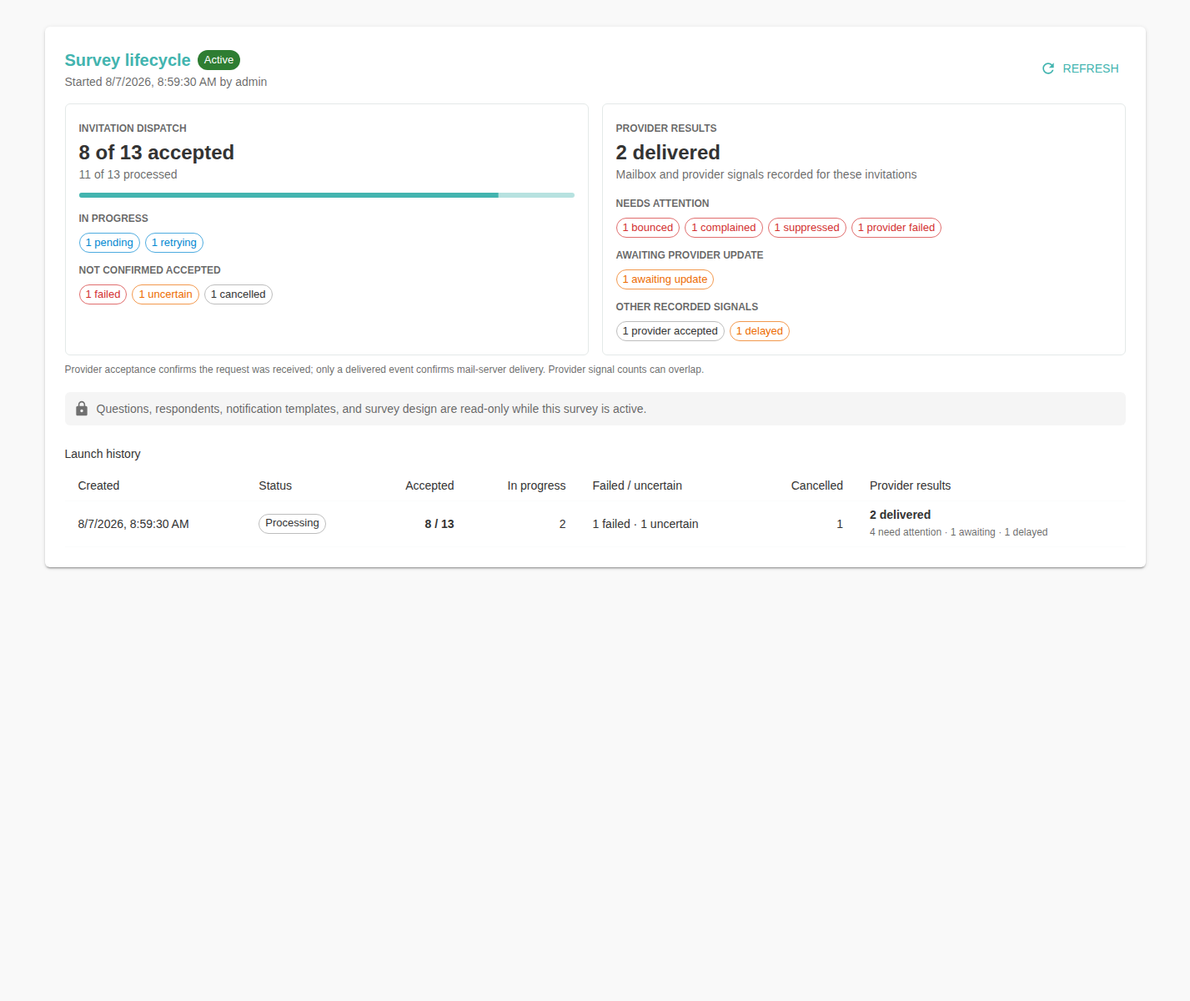
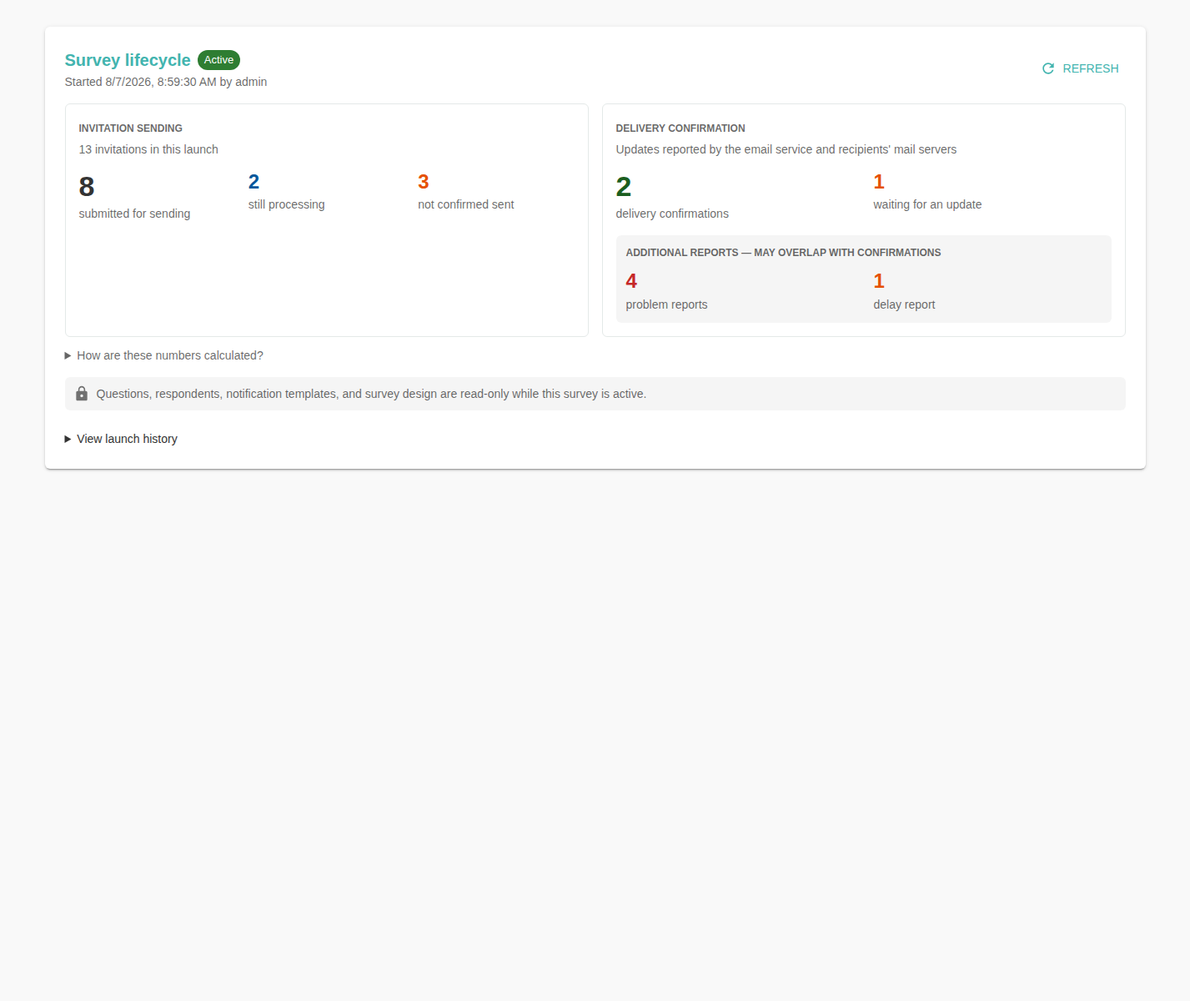
Replace delivery state lists with plain-language summaries

diff --git a/dashboard/src/components/SurveyLifecyclePanel.js b/dashboard/src/components/SurveyLifecyclePanel.js
@@ -1,13 +1,12 @@
 import React from 'react';
 import {
-  Alert, Box, Button, Chip, CircularProgress, LinearProgress, Paper, Stack,
-  Table, TableBody, TableCell, TableHead, TableRow, Tooltip, Typography,
+  Alert, Box, Button, Chip, CircularProgress, Paper, Stack, Typography,
 } from '@mui/material';
 import RefreshIcon from '@mui/icons-material/Refresh';
 import LockIcon from '@mui/icons-material/Lock';
 import api from '../api/axios';
 import {
-  formatDateTime, isLaunchRunning, launchCounts, launchStatus, providerCounts,
+  formatDateTime, isLaunchRunning, launchCounts, providerCounts,
   lifecycleLabel, lifecycleStatus, shouldPollLaunch, surveyId,
 } from './surveyLifecycle';
 
@@ -17,27 +16,55 @@ export const LifecycleChip = ({ status, size = 'small' }) => {
   return <Chip size={size} color={color} variant={normalized === 'closed' ? 'outlined' : 'filled'} label={lifecycleLabel(normalized)} />;
 };
 
-const statusText = (status) => String(status || 'queued').replaceAll('_', ' ').replace(/^./, (letter) => letter.toUpperCase());
-const StatusChip = ({ count, label, title, color = 'default' }) => {
-  if (!count) return null;
-  const metric = `${count} ${label}`;
+const Metric = ({ value, label, singularLabel, emphasis = false, color = 'text.primary' }) => {
+  const displayedLabel = value === 1 && singularLabel ? singularLabel : label;
   return (
-    <Tooltip title={title} arrow describeChild>
-      <Box component="span" tabIndex={0} aria-label={`${metric}. ${title}`} sx={{ display: 'inline-flex' }}>
-        <Chip size="small" color={color} variant="outlined" label={metric} />
-      </Box>
-    </Tooltip>
+    <Box aria-label={`${value} ${displayedLabel}`} sx={{ minWidth: 0 }}>
+      <Typography variant={emphasis ? 'h4' : 'h5'} color={color} sx={{ fontWeight: 700, lineHeight: 1.1 }}>{value}</Typography>
+      <Typography variant="body2" color="text.secondary" sx={{ mt: 0.5 }}>{displayedLabel}</Typography>
+    </Box>
   );
 };
 
-const SummaryCard = ({ title, headline, supporting, children, ariaLabel }) => (
+const SummaryCard = ({ title, supporting, children, ariaLabel }) => (
   <Paper component="section" aria-label={ariaLabel} variant="outlined" sx={{ p: 2, minWidth: 0 }}>
     <Typography variant="overline" color="text.secondary" sx={{ fontWeight: 700, lineHeight: 1.5 }}>{title}</Typography>
-    <Typography variant="h5" sx={{ mt: 0.25, fontWeight: 700 }}>{headline}</Typography>
-    <Typography variant="body2" color="text.secondary">{supporting}</Typography>
+    <Typography variant="body2" color="text.secondary" sx={{ mt: 0.5 }}>{supporting}</Typography>
     {children}
   </Paper>
 );
+
+const countLabel = (count, singular, plural = `${singular}s`) => `${count} ${count === 1 ? singular : plural}`;
+const joinDescriptions = (parts) => parts.length < 2 ? parts[0] || '' : `${parts.slice(0, -1).join(', ')}, and ${parts.at(-1)}`;
+
+const PlainLanguageBreakdown = ({ counts, outcomes }) => {
+  const processing = [
+    counts.pending && countLabel(counts.pending, 'invitation waiting to start', 'invitations waiting to start'),
+    counts.leased && countLabel(counts.leased, 'invitation being sent now', 'invitations being sent now'),
+    counts.retryWait && countLabel(counts.retryWait, 'invitation scheduled for another attempt', 'invitations scheduled for another attempt'),
+  ].filter(Boolean);
+  const notConfirmed = [
+    counts.failed && countLabel(counts.failed, 'permanent failure'),
+    counts.uncertain && countLabel(counts.uncertain, 'result that could not be safely confirmed', 'results that could not be safely confirmed'),
+    counts.cancelled && countLabel(counts.cancelled, 'intentionally stopped invitation'),
+  ].filter(Boolean);
+  const problems = [
+    outcomes.bounced && countLabel(outcomes.bounced, 'mail-server rejection'),
+    outcomes.complained && countLabel(outcomes.complained, 'spam complaint'),
+    outcomes.suppressed && countLabel(outcomes.suppressed, 'blocked address'),
+    outcomes.providerFailed && countLabel(outcomes.providerFailed, 'provider delivery failure'),
+  ].filter(Boolean);
+
+  return (
+    <Box sx={{ mt: 1, pl: 2, maxWidth: 950 }}>
+      <Typography variant="body2"><strong>Submitted for sending</strong> means the email service received the invitation request. It does not confirm delivery.</Typography>
+      <Typography variant="body2" sx={{ mt: 0.75 }}><strong>Still processing:</strong> {processing.length ? joinDescriptions(processing) : 'none'}.</Typography>
+      <Typography variant="body2" sx={{ mt: 0.75 }}><strong>Not confirmed sent:</strong> {notConfirmed.length ? joinDescriptions(notConfirmed) : 'none'}.</Typography>
+      <Typography variant="body2" sx={{ mt: 0.75 }}><strong>Problem reports:</strong> {problems.length ? joinDescriptions(problems) : 'none'}.</Typography>
+      <Typography variant="body2" sx={{ mt: 0.75 }}>A <strong>delivery confirmation</strong> comes from a recipient's mail server. Delay and problem reports are retained and can overlap with later updates.</Typography>
+    </Box>
+  );
+};
 
 const SurveyLifecyclePanel = ({ survey, onSurveyRefresh, refreshToken = 0 }) => {
   const [launches, setLaunches] = React.useState([]);
@@ -105,8 +132,6 @@ const SurveyLifecyclePanel = ({ survey, onSurveyRefresh, refreshToken = 0 }) => 
   const latest = visibleLaunches[0] || survey.latestLaunch || survey.latest_launch;
   const counts = launchCounts(latest);
   const outcomes = providerCounts(latest);
-  const terminal = counts.accepted + counts.failed + counts.uncertain + counts.cancelled;
-  const progress = counts.target ? Math.min(100, (terminal / counts.target) * 100) : 0;
   const adverse = outcomes.bounced + outcomes.complained + outcomes.suppressed + outcomes.providerFailed;
   const inProgress = counts.pending + counts.leased + counts.retryWait;
   const manualRefresh = () => setManualRefreshToken((value) => value + 1);
@@ -133,71 +158,39 @@ const SurveyLifecyclePanel = ({ survey, onSurveyRefresh, refreshToken = 0 }) => 
       {latest && <Box sx={{ mt: 2 }}>
         <Box sx={{ display: 'grid', gridTemplateColumns: { xs: '1fr', md: 'repeat(2, minmax(0, 1fr))' }, gap: 2 }}>
           <SummaryCard
-            title="Invitation dispatch"
-            headline={`${counts.accepted} of ${counts.target} accepted`}
-            supporting={`${terminal} of ${counts.target} processed`}
-            ariaLabel="Invitation dispatch summary"
+            title="Invitation sending"
+            supporting={`${counts.target} invitations in this launch`}
+            ariaLabel="Invitation sending summary"
           >
-            <LinearProgress variant="determinate" value={progress} sx={{ mt: 1.5, mb: 2, height: 6, borderRadius: 3 }} aria-label="Invitation dispatch progress" />
-            {inProgress > 0 && <Box sx={{ mb: 1.5 }}>
-              <Typography variant="caption" color="text.secondary" sx={{ display: 'block', mb: 0.75, fontWeight: 700 }}>IN PROGRESS</Typography>
-              <Stack direction="row" useFlexGap flexWrap="wrap" gap={0.75}>
-                <StatusChip count={counts.pending} label="pending" color="info" title="Queued locally; the provider request has not started." />
-                <StatusChip count={counts.leased} label="sending" color="info" title="A worker is currently processing the invitation." />
-                <StatusChip count={counts.retryWait} label="retrying" color="info" title="A temporary or ambiguous failure occurred and another safe attempt is scheduled." />
-              </Stack>
-            </Box>}
-            {(counts.failed + counts.uncertain + counts.cancelled) > 0 && <Box>
-              <Typography variant="caption" color="text.secondary" sx={{ display: 'block', mb: 0.75, fontWeight: 700 }}>NOT CONFIRMED ACCEPTED</Typography>
-              <Stack direction="row" useFlexGap flexWrap="wrap" gap={0.75}>
-                <StatusChip count={counts.failed} label="failed" color="error" title="Sending permanently failed or safe retries were exhausted." />
-                <StatusChip count={counts.uncertain} label="uncertain" color="warning" title="The provider may have accepted the request, but the result could not be confirmed safely." />
-                <StatusChip count={counts.cancelled} label="cancelled" title="The application intentionally stopped the invitation before completion." />
-              </Stack>
-            </Box>}
-            {inProgress === 0 && counts.failed + counts.uncertain + counts.cancelled === 0 && (
-              <Typography variant="body2" color="success.main" sx={{ mt: 2, fontWeight: 600 }}>All invitations were accepted by the provider.</Typography>
-            )}
+            <Box sx={{ display: 'grid', gridTemplateColumns: 'repeat(3, minmax(0, 1fr))', gap: 2, mt: 2 }}>
+              <Metric value={counts.accepted} label="submitted for sending" emphasis />
+              <Metric value={inProgress} label="still processing" color={inProgress > 0 ? 'info.dark' : 'text.primary'} />
+              <Metric value={counts.failed + counts.uncertain + counts.cancelled} label="not confirmed sent" color={counts.failed + counts.uncertain + counts.cancelled > 0 ? 'warning.dark' : 'text.primary'} />
+            </Box>
           </SummaryCard>
 
           <SummaryCard
-            title="Provider results"
-            headline={`${outcomes.delivered} delivered`}
-            supporting="Mailbox and provider signals recorded for these invitations"
-            ariaLabel="Provider outcome summary"
+            title="Delivery confirmation"
+            supporting="Updates reported by the email service and recipients' mail servers"
+            ariaLabel="Delivery confirmation summary"
           >
-            {adverse > 0 && <Box sx={{ mt: 2, mb: 1.5 }}>
-              <Typography variant="caption" color="text.secondary" sx={{ display: 'block', mb: 0.75, fontWeight: 700 }}>NEEDS ATTENTION</Typography>
-              <Stack direction="row" useFlexGap flexWrap="wrap" gap={0.75}>
-                <StatusChip count={outcomes.bounced} label="bounced" color="error" title="The recipient's mail server rejected the message." />
-                <StatusChip count={outcomes.complained} label="complained" color="error" title="The recipient reported the message as spam." />
-                <StatusChip count={outcomes.suppressed} label="suppressed" color="error" title="Sending was blocked for this address by local or provider suppression." />
-                <StatusChip count={outcomes.providerFailed} label="provider failed" color="error" title="The provider reported that delivery failed after accepting the request." />
-              </Stack>
-            </Box>}
-            {outcomes.acceptedUnverified > 0 && <Box sx={{ mt: adverse > 0 ? 0 : 2, mb: 1.5 }}>
-              <Typography variant="caption" color="text.secondary" sx={{ display: 'block', mb: 0.75, fontWeight: 700 }}>AWAITING PROVIDER UPDATE</Typography>
-              <Stack direction="row" useFlexGap flexWrap="wrap" gap={0.75}>
-                <StatusChip count={outcomes.acceptedUnverified} label="awaiting update" color="warning" title="The request was accepted, but no mailbox or provider signal has been recorded." />
-              </Stack>
-            </Box>}
-            {(outcomes.sent + outcomes.delayed) > 0 && <Box sx={{ mt: adverse + outcomes.acceptedUnverified > 0 ? 0 : 2 }}>
-              <Typography variant="caption" color="text.secondary" sx={{ display: 'block', mb: 0.75, fontWeight: 700 }}>OTHER RECORDED SIGNALS</Typography>
-              <Stack direction="row" useFlexGap flexWrap="wrap" gap={0.75}>
-                <StatusChip count={outcomes.sent} label="provider accepted" title="The provider reported accepting the message. This count can overlap with later outcomes." />
-                <StatusChip count={outcomes.delayed} label="delayed" color="warning" title="The provider reported a delivery delay. This signal remains recorded if a later result follows." />
-              </Stack>
-            </Box>}
-            {adverse === 0 && outcomes.sent + outcomes.delayed + outcomes.acceptedUnverified === 0 && (
-              <Typography variant="body2" color={outcomes.delivered > 0 ? 'success.main' : 'text.secondary'} sx={{ mt: 2, fontWeight: 600 }}>
-                {outcomes.delivered > 0 ? 'No delivery problems reported.' : 'No provider signals reported yet.'}
-              </Typography>
-            )}
+            <Box sx={{ display: 'grid', gridTemplateColumns: 'repeat(2, minmax(0, 1fr))', gap: 3, mt: 2 }}>
+              <Metric value={outcomes.delivered} label="delivery confirmations" singularLabel="delivery confirmation" emphasis color={outcomes.delivered > 0 ? 'success.dark' : 'text.primary'} />
+              <Metric value={outcomes.acceptedUnverified} label="waiting for an update" color={outcomes.acceptedUnverified > 0 ? 'warning.dark' : 'text.primary'} />
+            </Box>
+            <Box sx={{ mt: 2, p: 1.5, borderRadius: 1, bgcolor: 'action.hover' }}>
+              <Typography variant="caption" color="text.secondary" sx={{ display: 'block', fontWeight: 700 }}>ADDITIONAL REPORTS — MAY OVERLAP WITH CONFIRMATIONS</Typography>
+              <Box sx={{ display: 'grid', gridTemplateColumns: 'repeat(2, minmax(0, 1fr))', gap: 3, mt: 1.25 }}>
+                <Metric value={adverse} label="problem reports" singularLabel="problem report" color={adverse > 0 ? 'error.dark' : 'text.primary'} />
+                <Metric value={outcomes.delayed} label="delay reports" singularLabel="delay report" color={outcomes.delayed > 0 ? 'warning.dark' : 'text.primary'} />
+              </Box>
+            </Box>
           </SummaryCard>
         </Box>
-        <Typography variant="caption" color="text.secondary" sx={{ display: 'block', mt: 1 }}>
-          Provider acceptance confirms the request was received; only a delivered event confirms mail-server delivery. Provider signal counts can overlap.
-        </Typography>
+        <Box component="details" aria-label="Current launch explanation" sx={{ mt: 1.5, color: 'text.secondary', '& summary': { cursor: 'pointer', width: 'fit-content' } }}>
+          <Typography component="summary" variant="body2">How are these numbers calculated?</Typography>
+          <PlainLanguageBreakdown counts={counts} outcomes={outcomes} />
+        </Box>
       </Box>}
 
       {lifecycleStatus(survey) !== 'draft' && <Box sx={{ mt: 2, p: 1.25, borderRadius: 1, bgcolor: 'action.hover', display: 'flex', alignItems: 'center', gap: 1 }}>
@@ -207,51 +200,33 @@ const SurveyLifecyclePanel = ({ survey, onSurveyRefresh, refreshToken = 0 }) => 
         </Typography>
       </Box>}
 
-      {visibleLaunches.length > 0 && <Box sx={{ mt: 3, overflowX: 'auto' }}>
-        <Typography variant="subtitle2" sx={{ mb: 1 }}>Launch history</Typography>
-        <Table size="small" aria-label="Invitation launch history">
-          <TableHead><TableRow>
-            <TableCell>Created</TableCell>
-            <TableCell>Status</TableCell>
-            <TableCell align="right">Accepted</TableCell>
-            <TableCell align="right">In progress</TableCell>
-            <TableCell>Failed / uncertain</TableCell>
-            <TableCell align="right">Cancelled</TableCell>
-            <TableCell>Provider results</TableCell>
-          </TableRow></TableHead>
-          <TableBody>{visibleLaunches.map((launch, index) => {
+      {visibleLaunches.length > 0 && <Box component="details" sx={{ mt: 3, '& summary': { cursor: 'pointer', width: 'fit-content' } }}>
+        <Typography component="summary" variant="subtitle2">View launch history</Typography>
+        <Stack spacing={1} sx={{ mt: 1 }} aria-label="Invitation launch history">
+          {visibleLaunches.map((launch, index) => {
             const rowCounts = launchCounts(launch);
             const rowOutcomes = providerCounts(launch);
-            const rowInProgress = rowCounts.pending + rowCounts.leased + rowCounts.retryWait;
             const rowAdverse = rowOutcomes.bounced + rowOutcomes.complained + rowOutcomes.suppressed + rowOutcomes.providerFailed;
-            const dispatchDetails = `${rowCounts.pending} pending, ${rowCounts.leased} sending, ${rowCounts.retryWait} retrying`;
-            const providerDetails = `${rowOutcomes.sent} provider accepted, ${rowOutcomes.delivered} delivered, ${rowOutcomes.delayed} delayed, ${rowOutcomes.bounced} bounced, ${rowOutcomes.complained} complained, ${rowOutcomes.suppressed} suppressed, ${rowOutcomes.providerFailed} provider failed, ${rowOutcomes.acceptedUnverified} awaiting update`;
             return (
-              <TableRow key={launch.id || launch.launchId || index}>
-                <TableCell sx={{ whiteSpace: 'nowrap' }}>{formatDateTime(launch.createdAt || launch.created_at)}</TableCell>
-                <TableCell><Chip size="small" variant="outlined" label={statusText(launchStatus(launch))} /></TableCell>
-                <TableCell align="right" sx={{ whiteSpace: 'nowrap', fontWeight: 600 }}>{rowCounts.accepted} / {rowCounts.target}</TableCell>
-                <TableCell align="right">
-                  <Tooltip title={dispatchDetails} arrow><Box component="span" tabIndex={0}>{rowInProgress}</Box></Tooltip>
-                </TableCell>
-                <TableCell sx={{ whiteSpace: 'nowrap' }}>{rowCounts.failed} failed · {rowCounts.uncertain} uncertain</TableCell>
-                <TableCell align="right">{rowCounts.cancelled}</TableCell>
-                <TableCell sx={{ minWidth: 180 }}>
-                  <Tooltip title={providerDetails} arrow>
-                    <Box tabIndex={0}>
-                      <Typography variant="body2" fontWeight={600}>{rowOutcomes.delivered} delivered</Typography>
-                      <Typography variant="caption" color="text.secondary">
-                        {rowAdverse > 0 ? `${rowAdverse} need attention` : 'No problems'}
-                        {rowOutcomes.acceptedUnverified > 0 ? ` · ${rowOutcomes.acceptedUnverified} awaiting` : ''}
-                        {rowOutcomes.delayed > 0 ? ` · ${rowOutcomes.delayed} delayed` : ''}
-                      </Typography>
-                    </Box>
-                  </Tooltip>
-                </TableCell>
-              </TableRow>
+              <Paper component="details" variant="outlined" key={launch.id || launch.launchId || index} sx={{ p: 1.5, '& summary': { cursor: 'pointer' } }}>
+                <Typography component="summary" variant="body2" fontWeight={600}>
+                  {formatDateTime(launch.createdAt || launch.created_at)} — {rowCounts.accepted} of {rowCounts.target} submitted for sending
+                </Typography>
+                <Box sx={{ mt: 1.5, p: 1.5, borderRadius: 1, bgcolor: 'action.hover' }}>
+                  <Typography variant="caption" color="text.secondary" sx={{ fontWeight: 700 }}>DELIVERY UPDATES</Typography>
+                  <Box sx={{ display: 'grid', gridTemplateColumns: { xs: 'repeat(2, minmax(0, 1fr))', md: 'repeat(4, minmax(0, 1fr))' }, gap: 2, mt: 1 }}>
+                    <Metric value={rowOutcomes.delivered} label="delivery confirmations" singularLabel="delivery confirmation" />
+                    <Metric value={rowOutcomes.acceptedUnverified} label="waiting for an update" />
+                    <Metric value={rowAdverse} label="problem reports" singularLabel="problem report" />
+                    <Metric value={rowOutcomes.delayed} label="delay reports" singularLabel="delay report" />
+                  </Box>
+                  <Typography variant="caption" color="text.secondary" sx={{ display: 'block', mt: 1 }}>Problem and delay reports can overlap with confirmations.</Typography>
+                </Box>
+                <PlainLanguageBreakdown counts={rowCounts} outcomes={rowOutcomes} />
+              </Paper>
             );
-          })}</TableBody>
-        </Table>
+          })}
+        </Stack>
       </Box>}
     </Paper>
   );

diff --git a/dashboard/src/components/SurveyLifecyclePanel.test.js b/dashboard/src/components/SurveyLifecyclePanel.test.js
@@ -1,5 +1,5 @@
 import React from 'react';
-import { act, render, screen } from '@testing-library/react';
+import { act, fireEvent, render, screen, within } from '@testing-library/react';
 import { afterEach, beforeEach, expect, test, vi } from 'vitest';
 import api from '../api/axios';
 import SurveyLifecyclePanel from './SurveyLifecyclePanel';
@@ -69,15 +69,16 @@ test('renders provider outcomes separately without changing dispatch arithmetic'
   }] } });
   render(<SurveyLifecyclePanel survey={{ id: 'survey-1', name: 'First', lifecycleStatus: 'active' }} />);
 
-  expect(await screen.findByRole('region', { name: 'Invitation dispatch summary' })).toHaveTextContent('3 of 3 processed');
-  const providerSummary = screen.getByRole('region', { name: 'Provider outcome summary' });
-  expect(providerSummary).toHaveTextContent('2 delivered');
-  expect(providerSummary).toHaveTextContent('1 complained');
-  expect(providerSummary).toHaveTextContent('1 awaiting update');
-  expect(providerSummary).not.toHaveTextContent('3 delivered');
+  const sendingSummary = await screen.findByRole('region', { name: 'Invitation sending summary' });
+  expect(screen.getByLabelText('3 submitted for sending')).toBeInTheDocument();
+  const deliverySummary = screen.getByRole('region', { name: 'Delivery confirmation summary' });
+  expect(within(deliverySummary).getByLabelText('2 delivery confirmations')).toBeInTheDocument();
+  expect(within(deliverySummary).getByLabelText('1 problem report')).toBeInTheDocument();
+  expect(within(deliverySummary).getByLabelText('1 waiting for an update')).toBeInTheDocument();
+  expect(deliverySummary).not.toHaveTextContent('3 delivery confirmations');
 });
 
-test('shows exact invitation states instead of ambiguous active and issues buckets', async () => {
+test('uses plain-language aggregates instead of exposing operational keyword lists', async () => {
   api.get.mockResolvedValue({ data: { launches: [{
     id: 'launch-demo', status: 'processing', created_at: new Date().toISOString(),
     target_count: 13, pending_count: 1, retry_wait_count: 1, accepted_count: 8,
@@ -89,26 +90,24 @@ test('shows exact invitation states instead of ambiguous active and issues bucke
   }] } });
   render(<SurveyLifecyclePanel survey={{ id: 'survey-1', name: 'Delivery demo', lifecycleStatus: 'active' }} />);
 
-  const dispatch = await screen.findByRole('region', { name: 'Invitation dispatch summary' });
-  expect(dispatch).toHaveTextContent('8 of 13 accepted');
-  expect(dispatch).toHaveTextContent('1 pending');
-  expect(dispatch).toHaveTextContent('1 retrying');
-  expect(dispatch).toHaveTextContent('1 failed');
-  expect(dispatch).toHaveTextContent('1 uncertain');
-  expect(screen.getByLabelText(/1 uncertain\. The provider may have accepted/)).toHaveAttribute('tabindex', '0');
-  expect(dispatch).toHaveTextContent('1 cancelled');
-  expect(dispatch).not.toHaveTextContent(/active|issues/i);
+  const sending = await screen.findByRole('region', { name: 'Invitation sending summary' });
+  expect(sending).toHaveTextContent('13 invitations in this launch');
+  expect(screen.getByLabelText('8 submitted for sending')).toBeInTheDocument();
+  expect(screen.getByLabelText('2 still processing')).toBeInTheDocument();
+  expect(screen.getByLabelText('3 not confirmed sent')).toBeInTheDocument();
+  expect(sending).not.toHaveTextContent(/pending|retrying|uncertain|cancelled|issues/i);
 
-  const provider = screen.getByRole('region', { name: 'Provider outcome summary' });
-  expect(provider).toHaveTextContent('2 delivered');
-  expect(provider).toHaveTextContent('1 bounced');
-  expect(provider).toHaveTextContent('1 complained');
-  expect(provider).toHaveTextContent('1 suppressed');
-  expect(provider).toHaveTextContent('1 provider failed');
-  expect(provider).toHaveTextContent('1 delayed');
-  expect(provider).toHaveTextContent('1 awaiting update');
-  expect(provider).toHaveTextContent(/Other recorded signals/i);
-  expect(provider).toHaveTextContent(/Awaiting provider update/i);
+  const delivery = screen.getByRole('region', { name: 'Delivery confirmation summary' });
+  expect(within(delivery).getByLabelText('2 delivery confirmations')).toBeInTheDocument();
+  expect(within(delivery).getByLabelText('4 problem reports')).toBeInTheDocument();
+  expect(within(delivery).getByLabelText('1 waiting for an update')).toBeInTheDocument();
+  expect(within(delivery).getByLabelText('1 delay report')).toBeInTheDocument();
+  expect(delivery).not.toHaveTextContent(/bounced|complained|suppressed|provider failed/i);
+
+  const explanation = screen.getByLabelText('Current launch explanation');
+  fireEvent.click(within(explanation).getByText('How are these numbers calculated?'));
+  expect(within(explanation).getByText(/1 permanent failure, 1 result that could not be safely confirmed, and 1 intentionally stopped invitation/)).toBeVisible();
+  expect(within(explanation).getByText(/1 mail-server rejection, 1 spam complaint, 1 blocked address, and 1 provider delivery failure/)).toBeVisible();
 });
 
 test('does not render prior survey history while the next survey is loading', async () => {
@@ -117,9 +116,9 @@ test('does not render prior survey history while the next survey is loading', as
     .mockResolvedValueOnce({ data: { launches: [{ id: 'old', status: 'failed', counts: { target: 99, failed: 99 } }] } })
     .mockReturnValueOnce(second.promise);
   const { rerender } = render(<SurveyLifecyclePanel survey={{ id: 'survey-1', name: 'First', lifecycleStatus: 'closed' }} />);
-  expect(await screen.findByText(/99 of 99 processed/)).toBeInTheDocument();
+  expect(await screen.findByLabelText('99 not confirmed sent')).toBeInTheDocument();
   rerender(<SurveyLifecyclePanel survey={{ id: 'survey-2', name: 'Second', lifecycleStatus: 'active' }} />);
-  expect(screen.queryByText(/99 of 99 processed/)).not.toBeInTheDocument();
+  expect(screen.queryByLabelText('99 not confirmed sent')).not.toBeInTheDocument();
   await act(async () => {
     second.resolve({ data: { launches: [] } });
     await second.promise;
@@ -161,13 +160,13 @@ test('ignores launch history that resolves after the selected survey changes', a
     second.resolve({ data: { launches: [{ id: 'new', status: 'completed', counts: { target: 2, accepted: 2 } }] } });
     await second.promise;
   });
-  expect(await screen.findByText(/2 of 2 processed/)).toBeInTheDocument();
+  expect(await screen.findByLabelText('2 submitted for sending')).toBeInTheDocument();
 
   await act(async () => {
     first.resolve({ data: { launches: [{ id: 'old', status: 'failed', counts: { target: 99, failed: 99 } }] } });
     await first.promise;
   });
-  expect(screen.queryByText(/99 of 99 processed/)).not.toBeInTheDocument();
+  expect(screen.queryByLabelText('99 not confirmed sent')).not.toBeInTheDocument();
   expect(screen.getByLabelText('Invitation launch history')).toBeInTheDocument();
-  expect(screen.getByRole('region', { name: 'Invitation dispatch summary' })).toHaveTextContent('2 accepted');
+  expect(screen.getByLabelText('2 submitted for sending')).toBeInTheDocument();
 });
